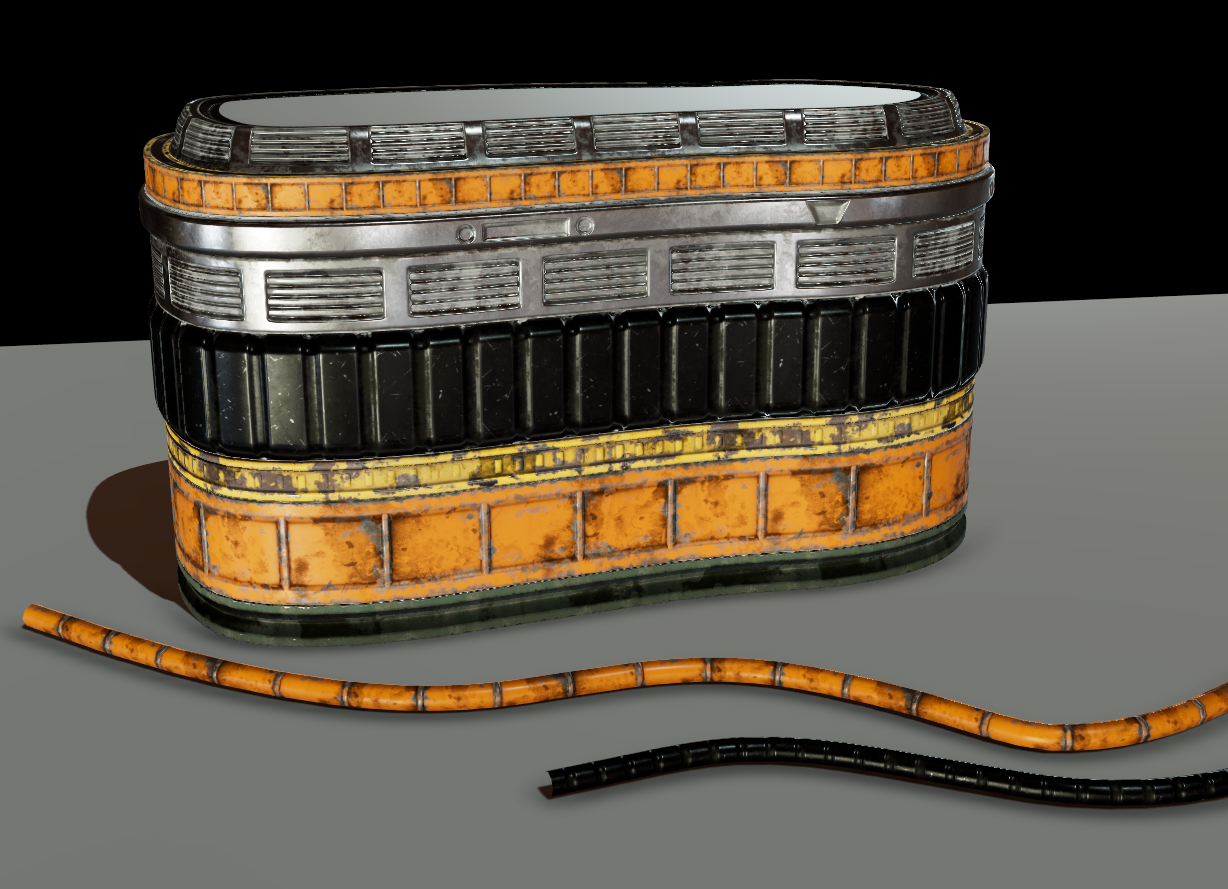
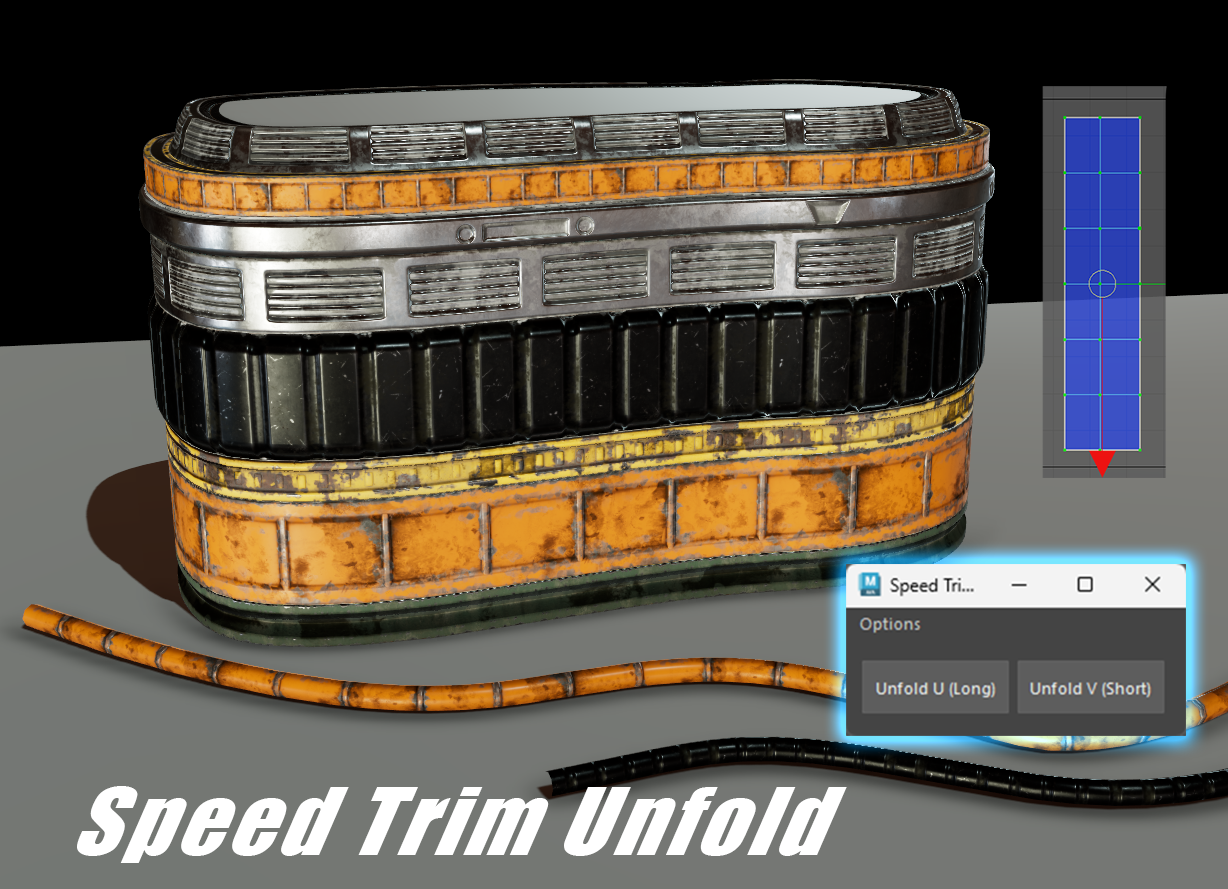
updated documentation
updated UI so updated some images

Changed region(s): [[0.6498, 0.6074, 0.9902, 0.8504], [0.8355, 0.0911, 0.9593, 0.5467], [0.0619, 0.8808, 0.7117, 0.9719]]

diff --git a/docs/Speed Trim Unfold/How to install.md b/docs/Speed Trim Unfold/How to install.md
@@ -1,6 +1,6 @@
 # :octicons-tools-16: **<span style="color:rgba(195, 221, 80, 1);">Installing Trim Speed Unfold</span>**  
 
-![Mirror Tool 1](images/Speed_Trim_Unfold_2.png){ .img-large .img-centered }
+![Speed Trim Unfold](images/Speed_Trim_Unfold_2.png){ .img-large .img-centered }
 ### **<span style="color:rgba(195, 221, 80, 1);">Step 1 - Setting up</span>** 
 <div class="grid cards" markdown>
 
@@ -10,7 +10,7 @@
 
     1.Unzip the [`Speed_Trim_Unfold.zip`](#) file.
    
-    2.Copy-paste the [`speed_trim_unfold.py`](#) file into your [`\Documents\Maya\Scripts`](#) folder.
+    2.Copy-paste the [`Speed_Trim_Unfold`](#) folder into your [`\Documents\Maya\Scripts`](#) folder.
     
     3.Open [`Maya`](#). 
 
@@ -20,9 +20,7 @@
 
 </div>
 
-
-
-### **<span style="color:rgba(195, 221, 80, 1);">Step 2 - Activating Hotkey</span>** 
+### **<span style="color:rgba(195, 221, 80, 1);">Step 2 - Activating UI</span>** 
 
 <div class="grid cards" markdown>
 
@@ -30,26 +28,18 @@
 
     ---
 
-    Copy the 2 ^^**Python**^^  lines below and bind these on a ^^**hotkey**^^  to execute the tool.
+    Copy the 2 ^^**Python**^^  lines below and bind these on a ^^**hotkey**^^ or ^^**shelf button**^^ to execute the tool.
 
     ``` py linenums="1"
-    import speed_trim_unfold
-    speed_trim_unfold.execute_trim()
+    from Speed_Trim_Unfold import speed_trim_unfold
+    speed_trim_unfold.show_ui()
+
     ```
 
-
 </div>
 
 
-</div>
-
-
-
-### **<span style="color:rgba(195, 221, 80, 1);">Step 3 - Creating Shelf button code</span>** 
-
-- Since this tool has no UI, this code will automatically create a shelf button. 
-    * **Click** to run the tool
-    * **Double-click** to open a **<span style="color:rgba(3, 173, 108, 1);">web browser link</span> to the **<span style="color:rgba(3, 173, 108, 1);">documentation</span>.
+### **<span style="color:rgba(195, 221, 80, 1);">Hotkeys</span>** 
 
 <div class="grid cards" markdown>
 
@@ -57,49 +47,45 @@
 
     ---
 
-    Use the script editor to copy the ^^**python**^^  lines below to automatically create a shelf button.
+    Unfold Horizontally - Long Align (Recommended)*
+
+    Copy the 2 ^^**Python**^^  lines below and bind these on a ^^**hotkey**^^ to unfold ^^horizontally^^ and align your shells alongside the ^^long^^ side your targets bounding box. 
 
     ``` py linenums="1"
-    import maya.cmds as cmds
-    import webbrowser
+    from Speed_Trim_Unfold import speed_trim_unfold
+    speed_trim_unfold.unfold_long()
 
-    def create_speed_trim_shelf_button():
-        active_shelf = cmds.tabLayout("ShelfLayout", query=True, selectTab=True)
-        
-        buttons = cmds.shelfLayout(active_shelf, q=True, ca=True) or []
-        button_exists = False
+    ```
+    Unfold Vertically - Short Align
 
-        for b in buttons:
-            if cmds.objectTypeUI(b) == "shelfButton":
-                label = cmds.shelfButton(b, q=True, l=True)
-                if label == "Speed Trim":
-                    button_exists = True
-                    break
-
-        if not button_exists: 
-            single_click_cmd = "import speed_trim_unfold; speed_trim_unfold.execute_trim()"
-            double_click_cmd = "import webbrowser; webbrowser.open('https://mike-isaakidis.github.io/Maya-Modelling-Tools/Speed%20Trim%20Unfold/')"
-            current_shelf = cmds.tabLayout("ShelfLayout", query=True, selectTab=True)
-            cmds.shelfButton(
-                parent=current_shelf,
-                label="Speed Trim",
-                annotation="Click to Execute Trim / Double-Click for Documentation",
-                image1="checker.svg",
-                command=single_click_cmd,
-                imageOverlayLabel='TRIM',
-                overlayLabelColor=[1.0, 1.0, 0.0],
-                doubleClickCommand=double_click_cmd,
-                sourceType="python"
-            )
-            print(f"Successfully added 'Speed Trim' button to shelf: {current_shelf}")
-        else:
-            print("Shelf button already exists.")
-
-    create_speed_trim_shelf_button()
+    Copy the 2 ^^**Python**^^  lines below and bind these on a ^^**hotkey**^^ to unfold ^^vertically^^ and align your shells alongside the ^^short^^ side your targets bounding box. 
+    
+    ``` py linenums="1"
+    from Speed_Trim_Unfold import speed_trim_unfold
+    speed_trim_unfold.unfold_short()
     ```
 
-
 </div>
+
+
+??? note  "Speed Trim Unfold Shelf Image - Shelf Button Info"
+
+    First time you fire up the tool **(Step 2)** click on the <span style="color:rgb(221, 240, 115);">**Options Menu**</span>. 
+    
+    There you will find a <span style="color:rgb(221, 240, 115);">**create shelf button**</span> you can use that will automatically create a shelf button for you.
+    
+    ![Speed Trim Unfold](images/speed_trim_Options_1.png){ .img-small }
+
+    Downloading this image is not necessary *(exists only as backup)*.
+
+    <figure markdown="1" style="margin: 0; display: inline-block;">
+
+    [![Batch Export](../Speed%20Trim%20Unfold/images/Speed_Trim.png)](../Speed%20Trim%20Unfold/images/Speed_Trim.png){: .md-button download="Speed_Trim.png" }
+
+    <figcaption style="text-align: center;"><span style="color:rgb(168, 136, 228);"></span></figcaption>
+    </figure>
+
+
 
 Click the button below to learn how to create hotkeys and shelf buttons.
 

diff --git a/docs/Speed Trim Unfold/index.md b/docs/Speed Trim Unfold/index.md
@@ -25,6 +25,12 @@ It's a one-click solution to save you time and make UVing a more fun and engagin
 
 ## <span style="color:rgba(255, 251, 0, 1);">**How it works**</span> ##
 
+???+ Tip "Important"
+    The examples presented are all using the <span style="color:rgb(186, 187, 105);">**Unfold Horizontally - Long Align**</span> hotkey.
+    
+    For the UI version check [UI Button Functionality](#ui-button-functionality).
+    
+
 Depending on the type of component you have chosen the tool has different behaviours. 
 
 Please check the Rules section 
@@ -100,6 +106,36 @@ Please check the Rules section
                     * When converting vertices or edges that share border edges you will also select uvs that are shared between shells.
                     * This will mess up the number of shells to be aligned and possibly their orientation.
 
+## <span style="color:rgba(255, 251, 0, 1);">**UI Button Functionality**</span> ##
+![Speed Trim multi select](images/Speed_Trim_UI_1.png){ .img-small .img-centered }
+
+ <span style="color:rgba(22, 165, 110, 1);">**Unfold U and Unfold V**</span> : When having faces selected these buttons will unfold your trims **Horizontally** and **Vertically**.
+
+ The difference these make is when you have UV's selected. 
+ 
+ - When aligning UVs to a target shell, the tool calcualtes the bounding box of that target shell. That calculation is how the tool know how to orient the source UV shells.  
+    * Clicking on the <span style="color:rgba(22, 165, 110, 1);">**Unfold U (Long)**</span> button: will unfold your selected *(source)* Trim sheets alongside the **long** side of the targets bounding box. 
+
+    ![Speed Trim multi select](images/Speed_Trim_button_1.png){ .img-medium .img-centered }
+
+     *  Clicking on the <span style="color:rgba(22, 165, 110, 1);">**Unfold V (Short)**</span> button: will unfold your selected *(source)* Trim sheets alongside the **short** side of the targets bounding box. 
+
+    ![Speed Trim multi select](images/Speed_Trim_button_2.png){ .img-medium .img-centered }
+
+    * Here's a basic demonstration:
+
+<figure style="text-align: center;">
+    <img src="images/Speed_Trim_Buttons_alignment_2.gif" class="img-medium" alt="Speed_Trim_Buttons">
+    <figcaption><span style="color:rgba(22, 165, 110, 1);">Unfolding Horizontally / Vertically</span></figcaption>
+</figure>
+
+<figure style="text-align: center;">
+    <img src="images/Speed_Trim_Buttons_alignment_1.gif" class="img-medium" alt="Speed_Trim_Buttons">
+    <figcaption><span style="color:rgba(22, 165, 110, 1);">Aligning shells anlongside the targets long/short bounding box sides</span></figcaption>
+</figure>
+
+
+
 ## <span style="color:rgba(255, 251, 0, 1);">**Rules**</span> ##
 
 The tool will not work if you have only objects selected, it requires component selections.
@@ -125,8 +161,14 @@ The tool will not work if you have only objects selected, it requires component 
         ![Speed Trim multi select](images/Speed_Trim_track_selection_order_1.png){ .img-large .img-centered }
 
 
+## <span style="color:rgba(255, 251, 0, 1);">**Options Menu**</span> ##
+
+![Speed Trim multi select](images/speed_trim_Options_2.png){ .img-small .img-centered }
 
 
 
+- <span style="color:rgba(22, 165, 110, 1);">**Create Shelf Button**</span> - Creates a shelf button for this tool directly on your active Maya shelf.
 
+- <span style="color:rgba(22, 165, 110, 1);">**Documentation**</span> - Opens a link to the documentation.
 
+- <span style="color:rgba(22, 165, 110, 1);">**Store**</span> - Opens links to ArtStation and Gumroad.
